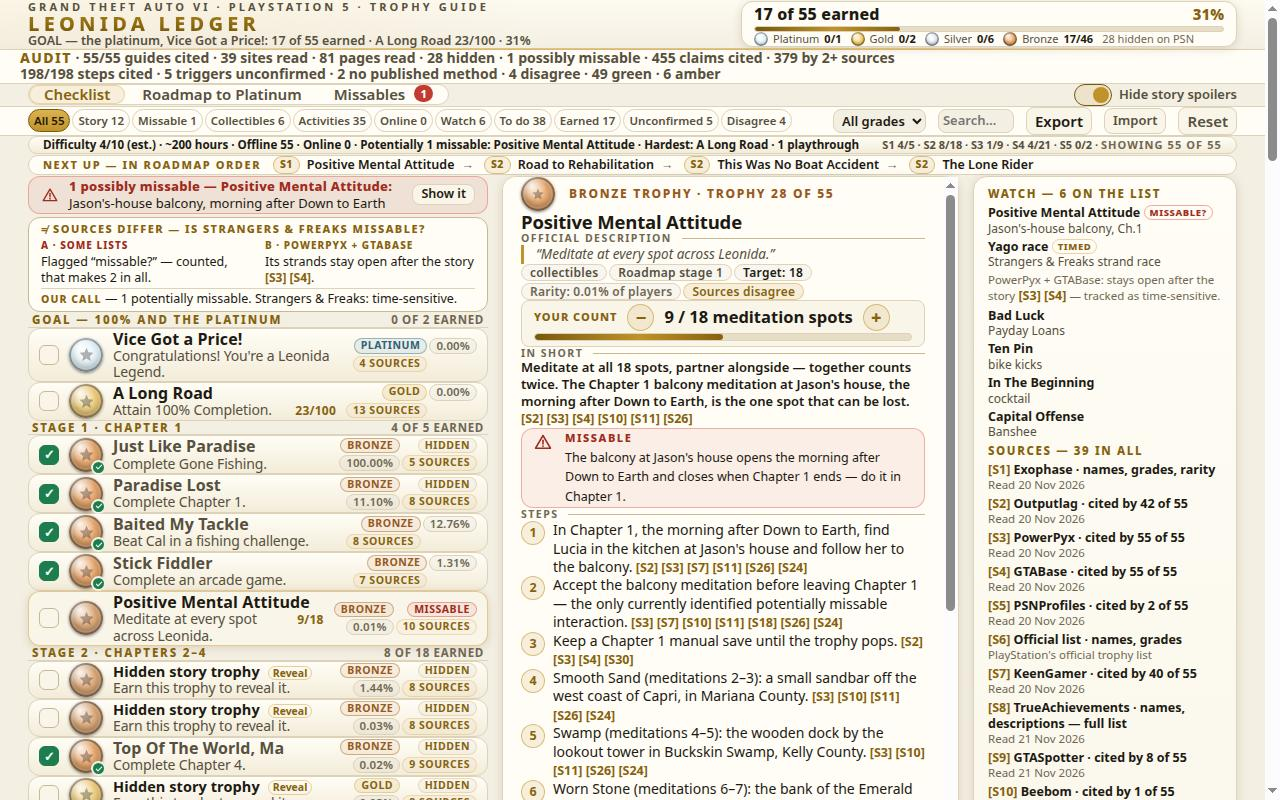
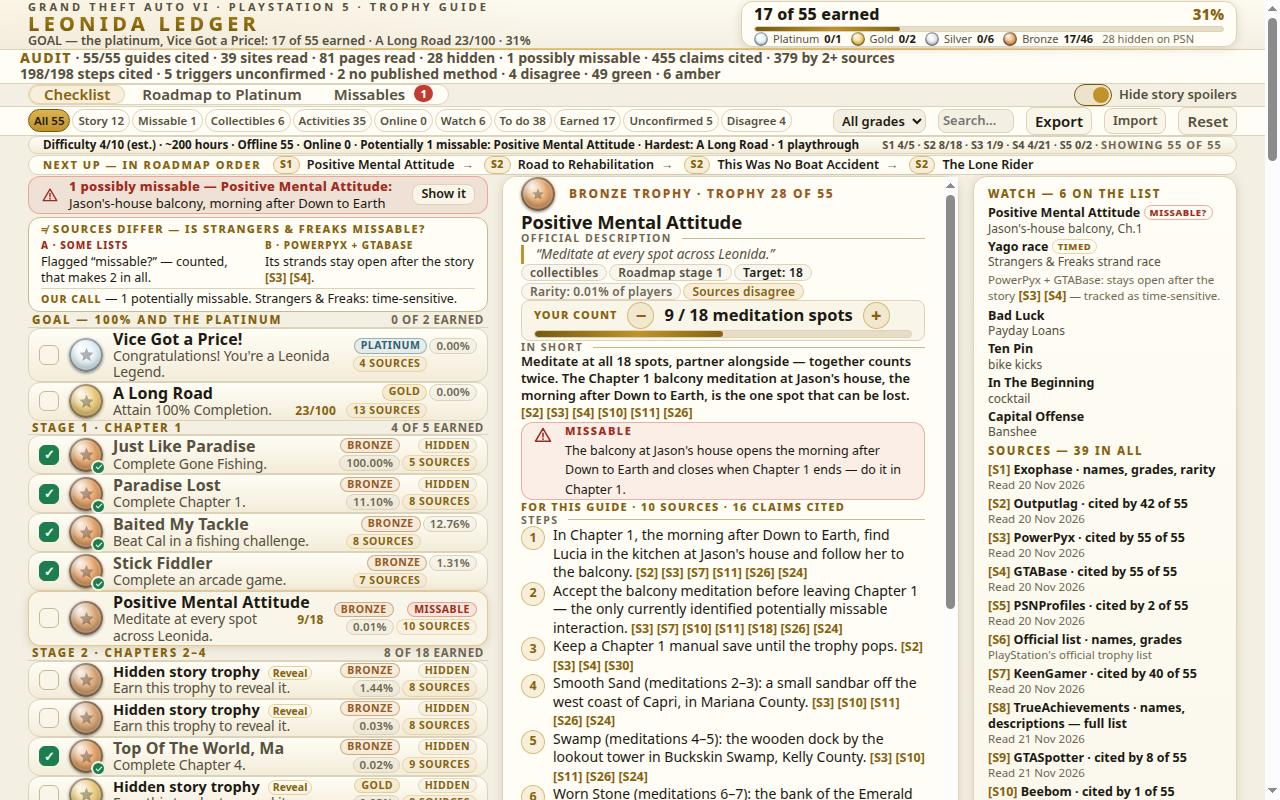
v32: per-guide source rail on the detail panel

Changed region(s): [[0.4062, 0.375, 0.7188, 1.0]]

diff --git a/app/app.js b/app/app.js
@@ -1275,6 +1275,30 @@ function markerRefs(trophy) {
   return refs;
 }
 
+/* The per-guide citation summary (v32): the panel's own form of
+   the per-guide source rail the leading guides print on their
+   covers. N is the marker union above — the sources in this
+   trophy's sources[] that a reader can see citing its text.
+   M counts this trophy's cited claim units with exactly
+   renderAudit's definitions: a step, a guide sentence (split
+   exactly as the audit splits) or the IN SHORT summary counts
+   once when its citation-table entry survives the subset check
+   against the trophy's own sources. Both figures are computed
+   from the same tables the audit strip reads, so the line can
+   only say what the guide actually contains. */
+function guideCiteStats(trophy) {
+  let claims = 0;
+  (trophy.steps ?? []).forEach((_, i) => {
+    if (citedRefs(trophy, STEP_CITES[trophy.id]?.[i + 1]).length) claims++;
+  });
+  const sentences = [...(trophy.guide ?? '').matchAll(/[^.!?]+[.!?]+["']?\s*/g)];
+  sentences.forEach((_, i) => {
+    if (citedRefs(trophy, GUIDE_CITES[trophy.id]?.[i + 1]).length) claims++;
+  });
+  if (trophy.short && citedRefs(trophy, SHORT_CITES[trophy.id]).length) claims++;
+  return { sources: markerRefs(trophy).size, claims };
+}
+
 /* The audit strip: every figure computed from the data at runtime, so
    the strip can only say what the guide actually contains. v14 merges
    the strip into ONE line: the contents audit (guides and steps
@@ -1658,6 +1682,19 @@ function renderDetail() {
     if (trophy.missable && trophy.missableNote) {
       detailPanel.append(alertElement(trophy));
     }
+    /* v32: the per-guide citation line stands directly ahead of
+       the steps it summarises (ahead of the guide prose when a
+       trophy has no steps) — the panel's answer to the leaders'
+       per-guide source rails, counted from the app's own
+       citation tables by guideCiteStats. An eyebrow extension
+       was measured first and wrapped to two lines in the
+       banner's 356px text box, so the line stands on its own. */
+    const citeStats = guideCiteStats(trophy);
+    const citeLine = document.createElement('div');
+    citeLine.className = 'guide-cite-line';
+    citeLine.textContent = 'For this guide · ' + citeStats.sources + ' sources · ' + citeStats.claims + ' claims cited';
+    const hasSteps = Boolean(trophy.steps && trophy.steps.length);
+    if (hasSteps) detailPanel.append(citeLine);
     /* v25: the steps stand ahead of the honesty box and the
        guide prose. The panel is a framed column (the 800px
        shot takes it from y=175): with the honesty box and the
@@ -1671,7 +1708,7 @@ function renderDetail() {
        missable alert still stands directly ahead of the
        steps it warns about, and every block the panel
        carried is still in the panel — only the order moved. */
-    if (trophy.steps && trophy.steps.length) {
+    if (hasSteps) {
       detailPanel.append(sectionLabel('Steps'));
       const steps = document.createElement('ol');
       steps.className = 'detail-steps';
@@ -1697,6 +1734,7 @@ function renderDetail() {
         refs,
       ));
     }
+    if (!hasSteps) detailPanel.append(citeLine);
     detailPanel.append(sectionLabel('Guide — in our own words'));
     detailPanel.append(guideParagraph(trophy));
   }

diff --git a/app/style.css b/app/style.css
@@ -961,8 +961,10 @@ main { padding: 0 28px 18px; }
      real padding, a 16.5px readout, 27px buttons, an 8px track.
      Baseline v19-v21: 30px tall; this build measures ~52px.
      v30: vertical padding 5px -> 3px — 4px of panel-internal
-     spacing funding for the 14px steps (see .detail-steps). */
-  padding: 3px 12px;
+     spacing funding for the 14px steps (see .detail-steps).
+     v32: vertical padding 3px -> 1px — 4px of the funding for
+     the per-guide citation line (see .guide-cite-line). */
+  padding: 1px 12px;
 }
 .counter-label {
   flex: none;
@@ -976,8 +978,10 @@ main { padding: 0 28px 18px; }
   flex: 1 1 100%;
   height: 8px;
   /* v30: track margins 3px -> 2px — 2px of the panel funding
-     for the 14px steps. */
-  margin: 2px 0;
+     for the 14px steps.
+     v32: margins 2px -> 1px — 2px more for the per-guide
+     citation line (see .guide-cite-line). */
+  margin: 1px 0;
   background: #e7ddc6;
   border: 1px solid var(--line);
   border-radius: 999px;
@@ -1077,8 +1081,10 @@ main { padding: 0 28px 18px; }
   border-radius: var(--radius);
   /* v29 (completion): vertical padding 4px -> 2px and the top
      margin dropped — 6px of the panel funding for the 6th
-     PMA step (see .detail-col). */
-  padding: 2px 11px;
+     PMA step (see .detail-col).
+     v32: vertical padding 2px -> 1px — 2px more for the
+     per-guide citation line (see .guide-cite-line). */
+  padding: 1px 11px;
   margin: 0;
   /* The text sets its own line-height on the span, but the box's
      strut (inherited 1.5 from the body) would stretch every line;
@@ -1123,6 +1129,22 @@ main { padding: 0 28px 18px; }
 .detail-sources li { margin-bottom: 1px; }
 /* v14: the panel's sources in one line — the registry itself is in
    the rail; this line names the trophy's own sources and points. */
+/* v32: the per-guide citation line — the panel's per-guide
+   source rail ("FOR THIS GUIDE · N SOURCES · M CLAIMS CITED"),
+   set in the eyebrow's own voice (uppercase, tracked, gold)
+   directly ahead of the steps. Its ~13px is funded by the
+   panel trims marked v32 in .counter-bar, .counter-track and
+   .missable-box; no font anywhere moves. */
+.guide-cite-line {
+  margin: 0;
+  font-size: 11px;
+  font-weight: 800;
+  letter-spacing: 0.12em;
+  text-transform: uppercase;
+  line-height: 1.2;
+  color: var(--gold-hi);
+  white-space: nowrap;
+}
 .panel-sources-line { margin: 2px 0 0; font-size: 12px; line-height: 1.3; color: var(--muted); }
 .panel-sources-line strong { color: var(--gold-hi); font-weight: 700; }
 .tag.disagree { color: var(--gold-hi); border-color: rgba(217, 169, 79, 0.55); background: var(--gold-tint); }
